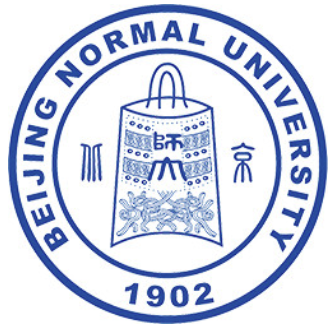
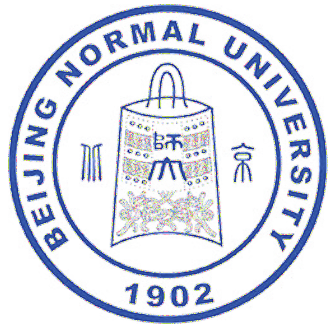
style: 校徽去白底并移至大标题右侧(30px,手机24px)，移除左上角水印

diff --git a/public/style.css b/public/style.css
@@ -49,22 +49,6 @@ body {
   -webkit-text-size-adjust: 100%;
 }
 
-/* ---------------- 北师大校徽背景水印 ---------------- */
-/* 钉在左上角，尺寸收小、透明度略提；游戏区是实色卡片不会被挡，
-   校徽只从四周留白与半透明面板里透出来，点题但不干扰操作。
-   官方校徽是白底蓝章，用 multiply 混合让白底自动隐去、只留蓝章。 */
-body::before {
-  content: "";
-  position: fixed;
-  inset: 0;
-  z-index: 0;
-  pointer-events: none;
-  background: url("assets/bnu-emblem.png")
-              left 16px top 16px / min(26vmin, 200px) no-repeat;
-  opacity: .18;
-  mix-blend-mode: multiply;
-}
-
 .app {
   position: relative;
   z-index: 1;
@@ -496,6 +480,15 @@ body::before {
   flex-wrap: wrap;
 }
 
+/* 标题右侧的小校徽（已去白底，透明 PNG） */
+.title-emblem {
+  flex: 0 0 auto;
+  width: 30px;
+  height: 30px;
+  align-self: center;
+  opacity: .95;
+}
+
 .book-link {
   display: inline-flex;
   align-items: center;
@@ -843,6 +836,7 @@ body::before {
   .book-full { display: none; }
   .book-short { display: inline; }
   .book-link { padding: 5px 10px; font-size: 12px; }
+  .title-emblem { width: 24px; height: 24px; }
 
   .stats {
     flex: 1 1 auto;

diff --git a/public/index.html b/public/index.html
@@ -53,6 +53,7 @@
     <header class="panel-head">
       <div class="title-row">
         <h1>合成大奶娃</h1>
+        <img class="title-emblem" src="assets/bnu-emblem.png" alt="北京师范大学校徽">
         <button class="book-link" id="bookBtn" type="button">
           <span class="book-full">📖 《捧腹大笑思想与奶龙学概论》</span>
           <span class="book-short">📖 奶龙学</span>
